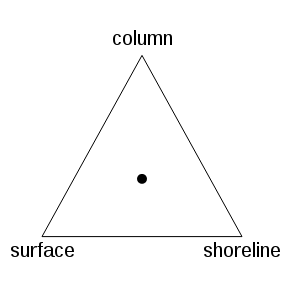
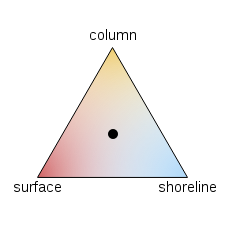
Updated the README.md and the action shot image

Changed region(s): [[0.0311, 0.0933, 0.9644, 0.8711]]

diff --git a/README.md b/README.md
@@ -22,15 +22,16 @@ This widget contains a class called Triangle which its constructor takes two arg
 The options available for the options hash are:
 
 * sideLength: Sets how long each side will be in terms of pixels
-* point1Name: Labels the first point which is the top point
-* point2Name: Labels the second point which is in the lower left
-* point3Name: Labels the third point which is in the lower right
+* point1: {label: Labels the first point which is the top point, color: Color of the point's radial gradient}
+* point2: {label: Labels the second point which is in the lower left, color: Color of the point's radial gradient}
+* point3: {label: Labels the third point which is in the lower right, color: Color of the point's radial gradient}
+* callback: Function that gets the distance percents passed in as the first parameter
 
 ####Example with picture
 
 The code below would generate the following widget in a canvas element with an id of "tutorial", where its width and height are both set at 300px.
 
-     var triangle = new Triangle('tutorial', {sideLength: 200, point1Name: 'column',point2Name: 'surface', point3Name: 'shoreline'});
+     var triangle = new Triangle('tutorial', {sideLength: 200, point1: {label: 'column', color: '#EDC240'}, point2: {label: 'surface', color: '#CB4B4B'}, point3: {label: 'shoreline', color: '#AFD8F8'}, callback: dataOutputter);
      triangle.draw();
 
 ![actionshot](./relativeImportance.png "Action Shot")
